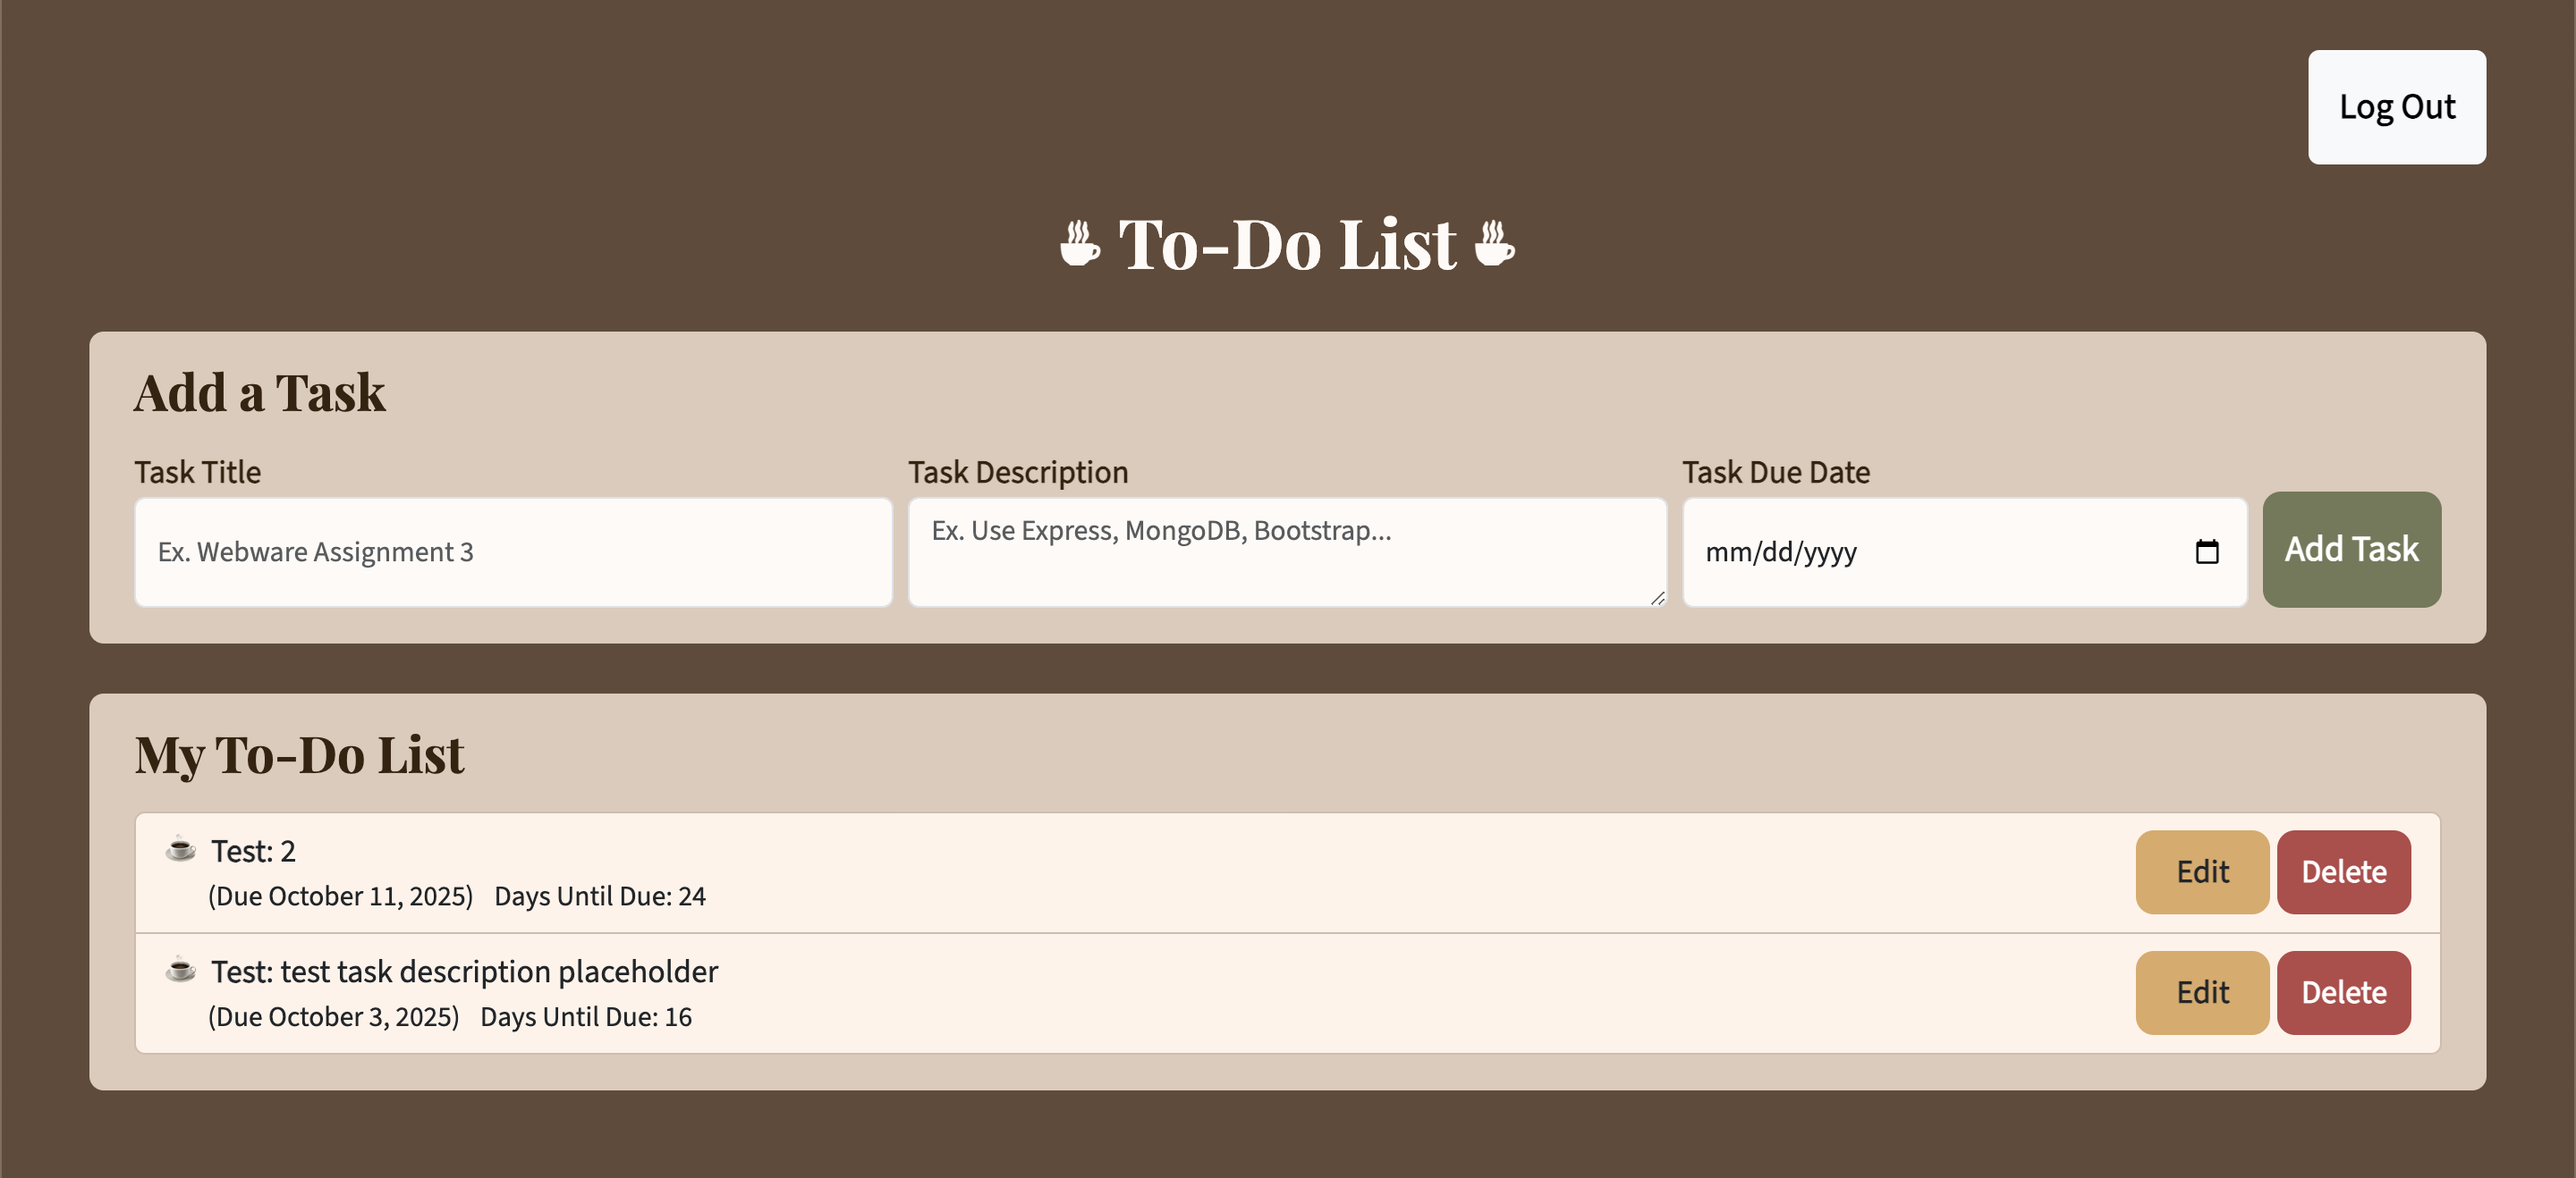
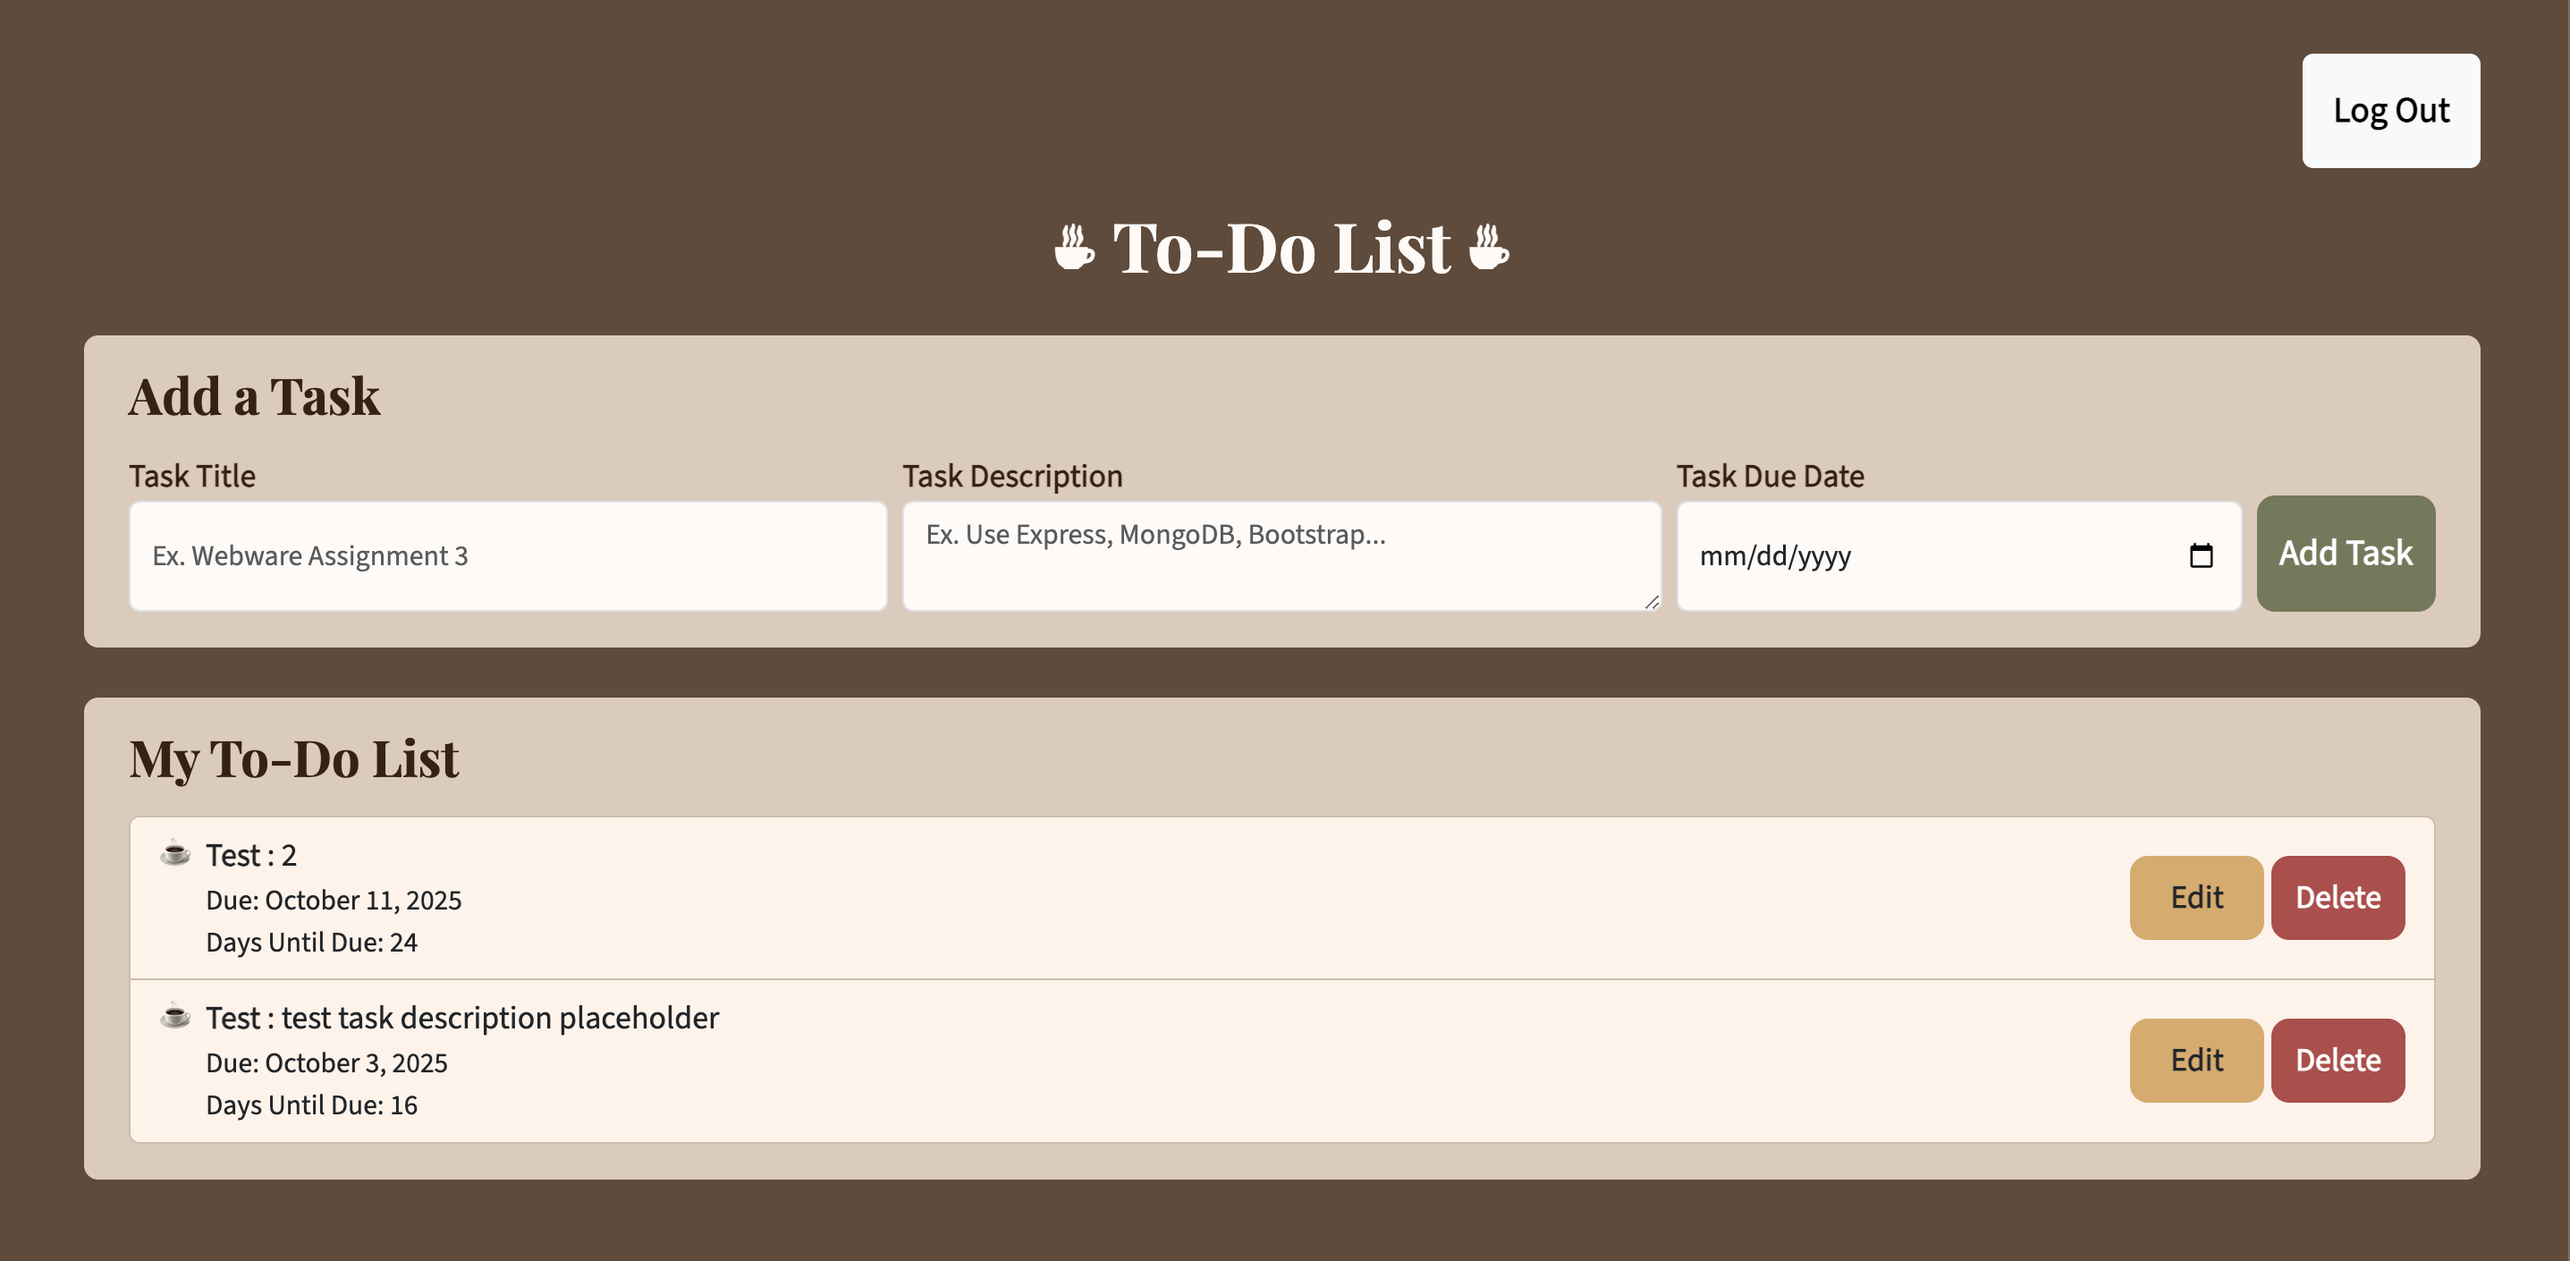
Restyled task list.

Changed region(s): [[0.031, 0.1555, 0.991, 0.9332], [0.8981, 0.0622, 0.96, 0.1555]]

diff --git a/public/js/main.js b/public/js/main.js
@@ -106,54 +106,54 @@ async function saveEdit(li) {
 
     li.innerHTML = `
         <div class="d-flex justify-content-between align-items-center">
-            <div class="d-flex flex-column flex-grow-1">
-                <div class="d-flex align-items-center">
-                    <span class="bullet me-2">☕</span>
+            <div class="d-flex flex-grow-1 align-items-start me-2">
+                <span class="bullet me-2">☕</span>
+                <div>
                     <span class="fw-bold">${task.title}</span>
                     ${task.description ? `: ${task.description}` : ""}
+                    ${
+                        task.dueDate
+                            ? `<div class="small">Due: ${formatDate(
+                                  task.dueDate
+                              )}</div>
+                            <div class="small">Days Until Due: ${
+                                task.daysUntilDue
+                            }</div>`
+                            : ""
+                    }
                 </div>
-                ${
-                    task.dueDate
-                        ? `<div class="small ms-4">(Due ${formatDate(
-                              task.dueDate
-                          )}) 
-                                        <span class="counter ms-2">Days Until Due: ${
-                                            task.daysUntilDue
-                                        }</span>
-                                </div>`
-                        : ""
-                }
             </div>
-            <div class="d-flex flex-column flex-sm-row align-items-center ms-1 gap-1">
+
+            <div class="d-flex flex-sm-row flex-column align-items-end gap-1">
                 <button class="btn btn-sm btn-font btn-org edit-btn">Edit</button>
                 <button class="btn btn-sm btn-danger btn-font btn-red delete-btn">Delete</button>
             </div>
-        </div>
+        </div>   
     `;
 }
 
 function cancelEdit(li, task) {
     li.innerHTML = `
         <div class="d-flex justify-content-between align-items-center">
-            <div class="d-flex flex-column flex-grow-1">
-                <div class="d-flex align-items-center">
-                    <span class="bullet me-2">☕</span>
+            <div class="d-flex flex-grow-1 align-items-start me-2">
+                <span class="bullet me-2">☕</span>
+                <div>
                     <span class="fw-bold">${task.title}</span>
                     ${task.description ? `: ${task.description}` : ""}
+                    ${
+                        task.dueDate
+                            ? `<div class="small">Due: ${formatDate(
+                                  task.dueDate
+                              )}</div>
+                            <div class="small">Days Until Due: ${
+                                task.daysUntilDue
+                            }</div>`
+                            : ""
+                    }
                 </div>
-                ${
-                    task.dueDate
-                        ? `<div class="small ms-4">(Due ${formatDate(
-                              task.dueDate
-                          )}) 
-                                        <span class="counter ms-2">Days Until Due: ${
-                                            task.daysUntilDue
-                                        }</span>
-                                </div>`
-                        : ""
-                }
             </div>
-            <div class="d-flex flex-column flex-sm-row align-items-center ms-1 gap-1">
+
+            <div class="d-flex flex-sm-row flex-column align-items-end gap-1">
                 <button class="btn btn-sm btn-font btn-org edit-btn">Edit</button>
                 <button class="btn btn-sm btn-danger btn-font btn-red delete-btn">Delete</button>
             </div>
@@ -223,29 +223,26 @@ const submit = async function (event) {
     tasks.innerHTML += `
         <li data-id="${task._id}" class="list-group-item list-bg">
             <div class="d-flex justify-content-between align-items-center">
-                <div class="d-flex flex-column flex-grow-1">
-                    <div class="d-flex align-items-center">
-                        <span class="bullet me-2">☕</span>
+
+                <div class="d-flex flex-grow-1 align-items-start me-2">
+                    <span class="bullet me-2">☕</span>
+                    <div>
                         <span class="fw-bold">${task.title}</span>
                         ${task.description ? `: ${task.description}` : ""}
+                        ${
+                            task.dueDate
+                                ? `<div class="small">Due: ${formatDate(task.dueDate)}</div>
+                                <div class="small">Days Until Due: ${task.daysUntilDue}</div>`
+                                : ""
+                        }
                     </div>
-                    ${
-                        task.dueDate
-                            ? `<div class="small ms-4">(Due ${formatDate(
-                                  task.dueDate
-                              )}) 
-                                            <span class="counter ms-2">Days Until Due: ${
-                                                task.daysUntilDue
-                                            }</span>
-                                    </div>`
-                            : ""
-                    }
                 </div>
-                <div class="d-flex flex-column flex-sm-row align-items-center ms-1 gap-1">
+
+                <div class="d-flex flex-sm-row flex-column align-items-end gap-1">
                     <button class="btn btn-sm btn-font btn-org edit-btn">Edit</button>
                     <button class="btn btn-sm btn-danger btn-font btn-red delete-btn">Delete</button>
                 </div>
-            </div>
+            </div>   
         </li>
     `;
 
@@ -275,30 +272,27 @@ window.onload = async function () {
         tasksList.innerHTML += `
             <li data-id="${task._id}" class="list-group-item list-bg">
                 <div class="d-flex justify-content-between align-items-center">
-                    <div class="d-flex flex-column flex-grow-1">
-                        <div class="d-flex align-items-center">
-                            <span class="bullet me-2">☕</span>
+
+                    <div class="d-flex flex-grow-1 align-items-start me-2">
+                        <span class="bullet me-2">☕</span>
+                        <div>
                             <span class="fw-bold">${task.title}</span>
                             ${task.description ? `: ${task.description}` : ""}
+                            ${
+                                task.dueDate
+                                    ? `<div class="small">Due: ${formatDate(task.dueDate)}</div>
+                                    <div class="small">Days Until Due: ${task.daysUntilDue}</div>`
+                                    : ""
+                            }
                         </div>
-                        ${
-                            task.dueDate
-                                ? `<div class="small ms-4">(Due ${formatDate(
-                                      task.dueDate
-                                  )}) 
-                                                <span class="counter ms-2">Days Until Due: ${
-                                                    task.daysUntilDue
-                                                }</span>
-                                        </div>`
-                                : ""
-                        }
                     </div>
-                    <div class="d-flex flex-column flex-sm-row align-items-center ms-1 gap-1">
+
+                    <div class="d-flex flex-sm-row flex-column align-items-end gap-1">
                         <button class="btn btn-sm btn-font btn-org edit-btn">Edit</button>
                         <button class="btn btn-sm btn-danger btn-font btn-red delete-btn">Delete</button>
                     </div>
-                </div>
-            </li>
+                </div>   
+             </li>
         `;
     });
 
